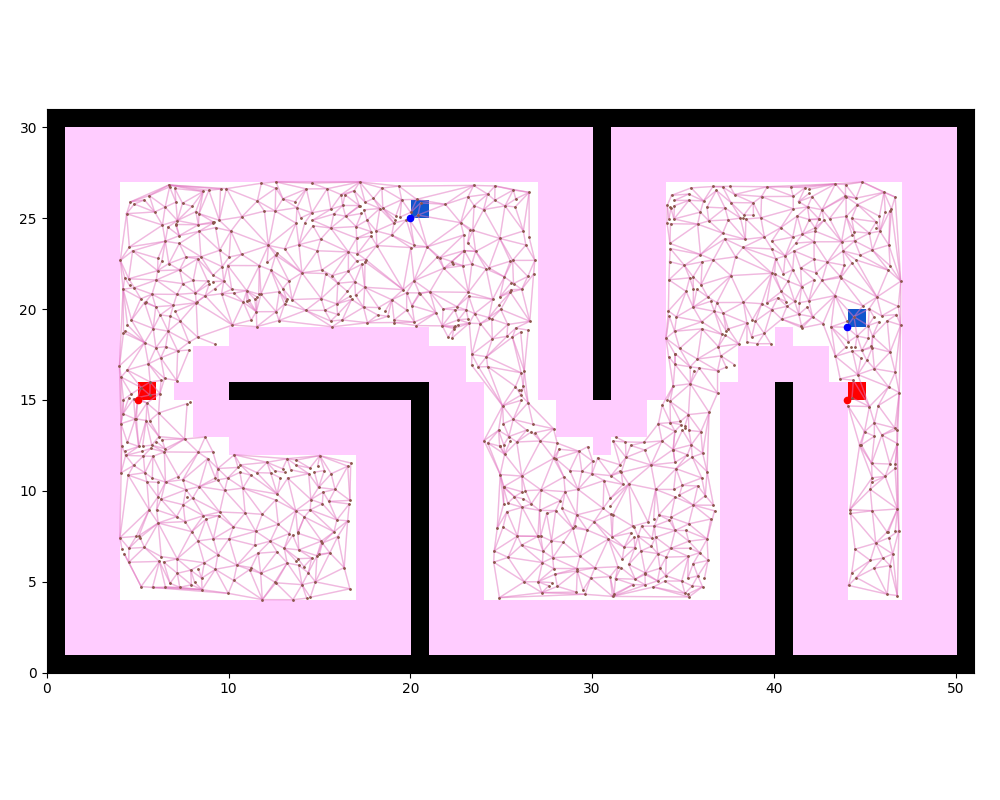
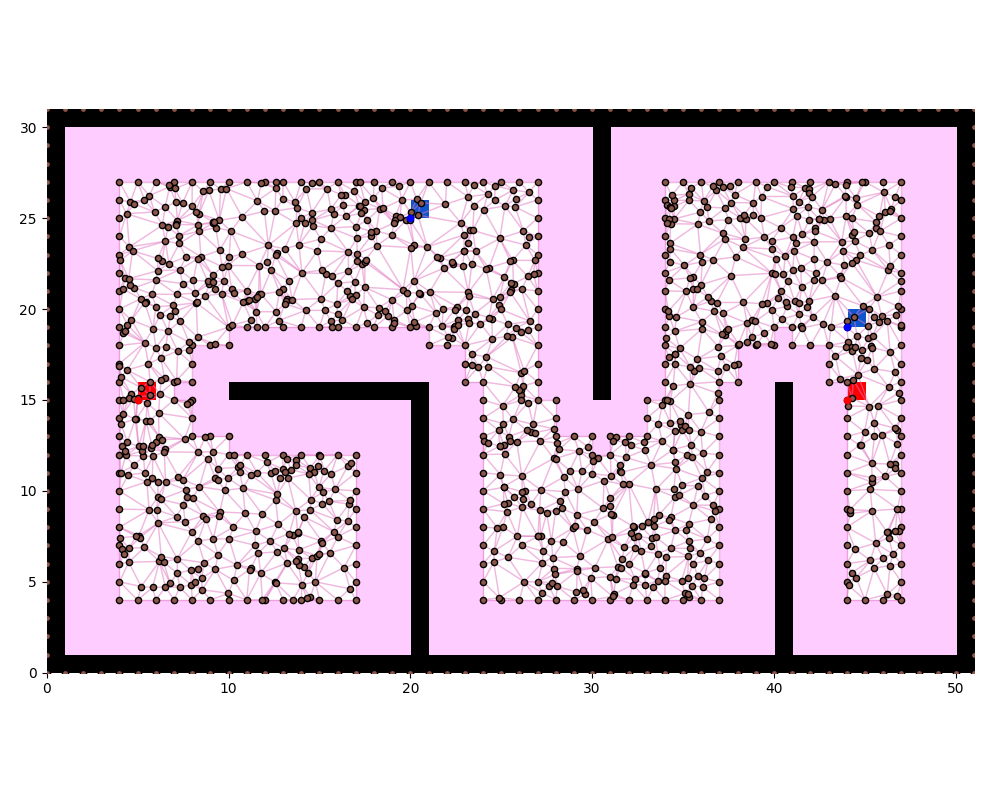
Modify graph_sampler and its script

Changed region(s): [[0.093, 0.2188, 0.93, 0.7812]]

diff --git a/scripts/roadmaps/run_graph_sampler.py b/scripts/roadmaps/run_graph_sampler.py
@@ -30,12 +30,17 @@ def run_graph_sampler(graph_sampler,start,goal,generate_grid_nodes = True,sample
     num_edges = sum([len(edges) for edges in road_map])
     print(f"Generated {num_edges} road map edges in {time.time() - st} seconds")
 
+    if map_.dim == 2:
+        roadmap_type = 'cdt'
+    else:
+        roadmap_type = 'dt'
     st = time.time()
-    planar_map = graph_sampler.generate_planar_map(nodes)
+    planar_map = graph_sampler.generate_planar_map(nodes, use_option=roadmap_type)
+    planar_nodes = graph_sampler.nodes
     num_edges = sum([len(edges) for edges in planar_map])   
     print(f"Generated {num_edges} planar map edges in {time.time() - st} seconds")
 
-    return graph_sampler,nodes, road_map,planar_map
+    return graph_sampler, nodes, road_map, planar_nodes, planar_map
 
 
 if __name__ == "__main__":
@@ -45,7 +50,7 @@ if __name__ == "__main__":
     start = [(5,15),(44,15)]
     goal = [(44,19), (20,25)]
     print("Running graph sampler on 2D map with discrete space and grid nodes...")
-    map_,nodes, road_map,planar_map = run_graph_sampler(map_,start,goal,sample_num = 0)
+    map_,nodes, road_map, planar_nodes, planar_map = run_graph_sampler(map_,start,goal,sample_num = 0)
     vis = Visualizer2D()
     vis.plot_grid_map(map_)
     vis.plot_road_map(map_,nodes,road_map)
@@ -55,7 +60,7 @@ if __name__ == "__main__":
 
     vis = Visualizer2D()
     vis.plot_grid_map(map_)
-    vis.plot_road_map(map_,nodes,planar_map)
+    vis.plot_road_map(map_,planar_nodes,planar_map)
     vis.savefig('figs/graph_sampler/graph_sampler_2d_planarmap_discrete_space.png')
     vis.show()
     vis.close()
@@ -65,7 +70,7 @@ if __name__ == "__main__":
     start = [(5,15),(44,15)]
     goal = [(44,19), (20,25)]
     print("Running graph sampler on 2D map with continuous space and random sampling nodes...")
-    map_,nodes, road_map,planar_map = run_graph_sampler(map_,start,goal,sample_num = 1000,generate_grid_nodes=False)
+    map_,nodes, road_map, planar_nodes, planar_map = run_graph_sampler(map_,start,goal,sample_num = 1000,generate_grid_nodes=False)
     vis = Visualizer2D()
     vis.plot_grid_map(map_)
     vis.plot_road_map(map_,nodes,road_map,map_frame=False)
@@ -75,7 +80,7 @@ if __name__ == "__main__":
 
     vis = Visualizer2D()
     vis.plot_grid_map(map_)
-    vis.plot_road_map(map_,nodes,planar_map,map_frame=False)
+    vis.plot_road_map(map_,planar_nodes,planar_map,map_frame=False)
     vis.savefig('figs/graph_sampler/graph_sampler_2d_planarmap.png')
     vis.show()
     vis.close()
@@ -85,7 +90,7 @@ if __name__ == "__main__":
     start = [(25, 5, 5)]
     goal = [(5, 25, 25)]
     print("Running graph sampler on 3D map with discrete space and random sampling nodes...")
-    map_,nodes, road_map,planar_map = run_graph_sampler(map_,start,goal,generate_grid_nodes = False,sample_num =1000)
+    map_,nodes, road_map, planar_nodes, planar_map = run_graph_sampler(map_,start,goal,generate_grid_nodes = False,sample_num =1000)
     vis = Visualizer3D()
     vis.plot_grid_map(map_)
     vis.plot_road_map(map_,nodes,road_map)
@@ -95,7 +100,7 @@ if __name__ == "__main__":
 
     vis = Visualizer3D()
     vis.plot_grid_map(map_)
-    vis.plot_road_map(map_,nodes,planar_map)
+    vis.plot_road_map(map_,planar_nodes,planar_map)
     vis.show()
     vis.savefig('figs/graph_sampler/graph_sampler_3d_planarmap_discrete_space.png')
     vis.close()
@@ -105,7 +110,7 @@ if __name__ == "__main__":
     start = [(25, 5, 5)]
     goal = [(5, 25, 25)]
     print("Running graph sampler on 3D map with continuous space and random sampling nodes...")
-    map_,nodes, road_map,planar_map = run_graph_sampler(map_,start,goal,generate_grid_nodes = False,sample_num =1000)
+    map_,nodes, road_map, planar_nodes, planar_map = run_graph_sampler(map_,start,goal,generate_grid_nodes = False,sample_num =1000)
     vis = Visualizer3D()
     vis.plot_grid_map(map_)
     vis.plot_road_map(map_,nodes,road_map)

diff --git a/path_planning/common/environment/map/graph_sampler.py b/path_planning/common/environment/map/graph_sampler.py
@@ -548,6 +548,8 @@ class GraphSampler(Grid):
             self.generate_planar_map(samples,use_option='centroids')
         elif roadmap_type == 'voronoi':
             self.generate_planar_map(samples,use_option='voronoi')
+        elif roadmap_type == 'dt':
+            self.generate_planar_map(samples, use_option='dt')
         elif roadmap_type == 'rrg':
             self.generate_rrg(samples)
         else:
@@ -608,10 +610,71 @@ class GraphSampler(Grid):
         self.edges, self.edge_indices_dict, self.edge_weights = self.calculate_edges(road_map, edge_weights)
         return road_map
 
-    def generate_planar_map(self, samples: List[Node],use_option:str = 'cdt'):
+    def generate_planar_map(self, samples: List[Node], use_option: str = 'cdt'):
+        """Build a planar roadmap from CDT over obstacles or from sample-point Delaunay (`dt`)."""
+        if use_option == 'dt':
+            n = len(samples)
+            if n == 0:
+                self.road_map = []
+                self.road_map_edge_weights = []
+                self.edges, self.edge_indices_dict, self.edge_weights = self.calculate_edges([], [])
+                self.nodes = []
+                return []
+
+            planar_map: List[List[int]] = [[] for _ in range(n)]
+            edge_weights: List[List[float]] = [[] for _ in range(n)]
+            edge_list: dict = {}
+            pts = np.array([samp.current for samp in samples])
+            tri = Delaunay(pts)
+            self.sample_kd_tree = KDTree(pts)
+
+            edges = [
+                tuple(edge)
+                for edge in np.concatenate(
+                    [tri.simplices[:, [0, 1]], tri.simplices[:, [1, 2]], tri.simplices[:, [2, 0]]],
+                    axis=0,
+                ).tolist()
+            ]
+            selected_edges: List[Tuple[int, int]] = []
+            selected_weights: List[float] = []
+            for edge in edges:
+                if edge in edge_list:
+                    continue
+                edge_list[edge] = 1
+                edge_list[edge[::-1]] = 1
+                node_s = samples[edge[0]]
+                node_n = samples[edge[1]]
+                s_pos = pts[edge[0]]
+                n_pos = pts[edge[1]]
+                e_weight = self.get_cost(node_s, node_n)
+                if (
+                    not self.in_collision(s_pos, n_pos)
+                    and not self.in_collision(n_pos, s_pos)
+                    and e_weight >= self.min_edge_length
+                    and e_weight <= self.max_edge_length
+                ):
+                    selected_edges.append(edge)
+                    selected_weights.append(e_weight)
+
+            for edge, weight in zip(selected_edges, selected_weights):
+                planar_map[edge[0]].append(edge[1])
+                planar_map[edge[1]].append(edge[0])
+                edge_weights[edge[0]].append(weight)
+                edge_weights[edge[1]].append(weight)
+
+            self.nodes = samples
+            self.num_total_nodes = n
+            self.cost_matrix = cdist(pts, pts, metric='euclidean')
+            self.road_map = planar_map
+            self.road_map_edge_weights = edge_weights
+            self.edges, self.edge_indices_dict, self.edge_weights = self.calculate_edges(
+                planar_map, edge_weights
+            )
+            return planar_map
+
         nodes = []
         mask = (self.type_map.data == TYPES.OBSTACLE) | (self.type_map.data == TYPES.INFLATION)
-        points,planar_map= get_planar_graph(self,mask,use_option=use_option)
+        points, planar_map = get_planar_graph(self, mask, use_option=use_option)
         edge_weights = [[] for ii in range(len(planar_map))]
 
         # Re-register the nodes after applying constrained delaunay triangulation

diff --git a/path_planning/common/environment/map/cdt.py b/path_planning/common/environment/map/cdt.py
@@ -114,9 +114,14 @@ def get_circumcenter(p1:np.ndarray, p2:np.ndarray, p3:np.ndarray):
 
 
 def get_boundary(map_,mask:np.ndarray):
+    dim = getattr(map_, "dim", 2)
+    if dim != 2 or mask.ndim != 2:
+        raise NotImplementedError(
+            "Planar/CDT boundary extraction requires a 2D occupancy grid (dim=2, mask H×W)."
+        )
     use_discrete_space = map_.use_discrete_space
-    offset = map_.map_to_world((0,0)) if use_discrete_space else (0,0) 
-    
+    offset = map_.map_to_world((0, 0)) if use_discrete_space else (0.0, 0.0)
+
     mask = (map_.type_map.data == TYPES.OBSTACLE) | (map_.type_map.data == TYPES.INFLATION)
     H, W = mask.shape
     res = float(map_.resolution)
